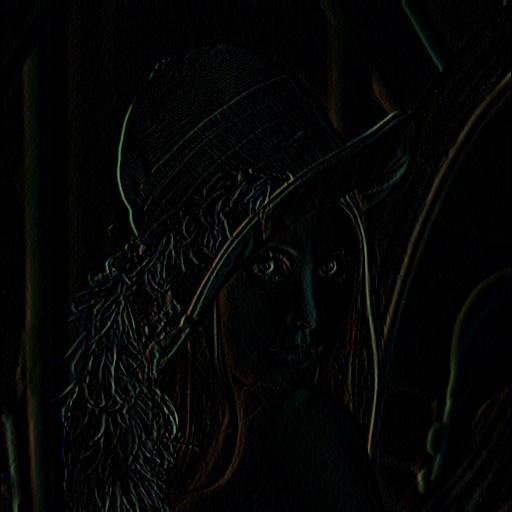
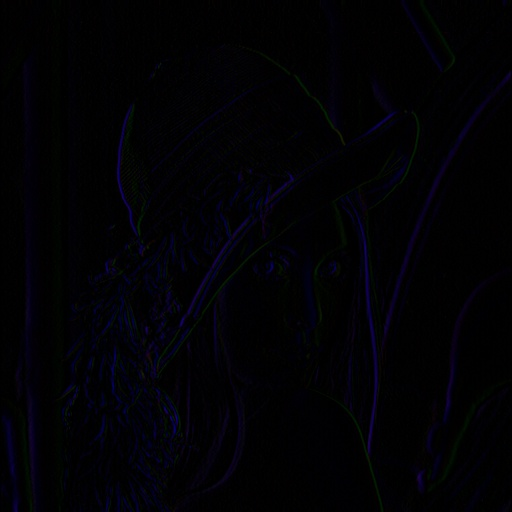
trucx

diff --git a/scripts/tools.py b/scripts/tools.py
@@ -5,8 +5,24 @@ import math
 
 
 class Tensor:
-    def __init__(self, tensor):
+    def __init__(self, tensor, c_plus, c_moins, thetaPlus, thetaMoins):
         self.tensor = tensor
+        self.c_plus = c_plus
+        self.c_moins = c_moins
+        self.thetaPlus = thetaPlus
+        self.thetaMoins = thetaMoins
+
+        def getThetaPlus(self):
+            return self.thetaPlus
+
+        def getThetaMoins(self):
+            return self.thetaMoins
+
+        def getCPlus(self):
+            return self.c_plus
+
+        def getCMoins(self):
+            return self.c_moins
 
 
 class Eigen:
@@ -45,7 +61,7 @@ class Eigen:
         T = self.getCPlus() * np.array([self.getThetaPlus()]).T @ np.array(
             [self.getThetaPlus()]) + self.getCMoins() * np.array([self.getThetaMoins()]).T @ np.array(
             [self.getThetaMoins()])
-        return Tensor(T)
+        return Tensor(T,self.getCPlus(),self.getCMoins(),self.getThetaPlus(),self.getThetaMoins())
 
 def getAngle(a, b, c):
     ang = math.degrees(math.atan2(c[1] - b[1], c[0] - b[0]) - math.atan2(a[1] - b[1], a[0] - b[0]))
@@ -62,10 +78,10 @@ def draw_ellipses(img, eigen):
     lambda_moins_matrix = np.zeros(eigen.shape)
     for i in range(eigen.shape[0]):
         for j in range(eigen.shape[1]):
-            lambda_plus_matrix[i][j] = eigen[i][j].getLambdaPlus()
-            lambda_moins_matrix[i][j] = abs(eigen[i][j].getLambdaMoins())
-            # lambda_plus_matrix[i][j] = eigen[i][j].getCPlus()
-            # lambda_moins_matrix[i][j] = (eigen[i][j].getCMoins())
+            # lambda_plus_matrix[i][j] = eigen[i][j].getLambdaPlus()
+            # lambda_moins_matrix[i][j] = (eigen[i][j].getLambdaMoins())
+            lambda_plus_matrix[i][j] = eigen[i][j].getCPlus()
+            lambda_moins_matrix[i][j] = (eigen[i][j].getCMoins())
 
     lambda_plus_normalized=cv.normalize(lambda_plus_matrix, None, 0,10, norm_type=cv.NORM_MINMAX)
     lambda_moins_normalized=cv.normalize(lambda_moins_matrix, None, 0,10, norm_type=cv.NORM_MINMAX)

diff --git a/scripts/tensors.py b/scripts/tensors.py
@@ -9,16 +9,27 @@ def initialization(img,sigma1, sigma2):
 
     img = cv.GaussianBlur(img,(15,15),sigma1)
 
+    # # Estimate the smoothed structure tensor field
+    # # sobel x
+    # img_sobel_x=cv.Sobel(img,cv.CV_64F,1,0,ksize=1)
+    # cv.imwrite('./output/tensors/img_sobel_x.jpg', img_sobel_x)
+    # # sobel y
+    # img_sobel_y=cv.Sobel(img,cv.CV_64F,0,1,ksize=1)
+    # cv.imwrite('./output/tensors/img_sobel_y.jpg', img_sobel_y)
+    # # BGR->LAB conversion
+    # img_sobel_x_lab = cv.cvtColor(np.uint8(img_sobel_x), cv.COLOR_BGR2LAB)
+    # img_sobel_y_lab = cv.cvtColor(np.uint8(img_sobel_y), cv.COLOR_BGR2LAB)
+
+    img_lab = cv.cvtColor(np.uint8(img), cv.COLOR_BGR2LAB)
     # Estimate the smoothed structure tensor field
     # sobel x
-    img_sobel_x=cv.Sobel(img,cv.CV_64F,1,0,ksize=1) 
-    cv.imwrite('./output/tensors/img_sobel_x.jpg', img_sobel_x)
+    img_sobel_x_lab = cv.Sobel(img_lab, cv.CV_64F, 1, 0, ksize=1)
+    cv.imwrite('./output/tensors/img_sobel_x.jpg', img_sobel_x_lab)
     # sobel y
-    img_sobel_y=cv.Sobel(img,cv.CV_64F,0,1,ksize=1) 
-    cv.imwrite('./output/tensors/img_sobel_y.jpg', img_sobel_y)
+    img_sobel_y_lab = cv.Sobel(img_lab, cv.CV_64F, 0, 1, ksize=1)
+    cv.imwrite('./output/tensors/img_sobel_y.jpg', img_sobel_y_lab)
     # BGR->LAB conversion
-    img_sobel_x_lab = cv.cvtColor(np.uint8(img_sobel_x), cv.COLOR_BGR2LAB)
-    img_sobel_y_lab = cv.cvtColor(np.uint8(img_sobel_y), cv.COLOR_BGR2LAB)
+
 
     # compute eigens 
     A=img_sobel_x_lab[:,:,0]*img_sobel_x_lab[:,:,0]+img_sobel_x_lab[:,:,1]*img_sobel_x_lab[:,:,1]+img_sobel_x_lab[:,:,2]*img_sobel_x_lab[:,:,2]
@@ -69,7 +80,8 @@ def main():
     # Algo
     A,B,C=initialization(img,sigma1,sigma2)
     G,T=computeTensors(A,B,C,p1,p2) # T (tensor de trait), G (tensor de structure)
-    tools.draw_ellipses(img, G)
+    # tools.draw_ellipses(img, G)
+    tools.draw_ellipses(img, T)
 
     print('time : '+str(round(time.time() - start_time))+' seconds')
 
